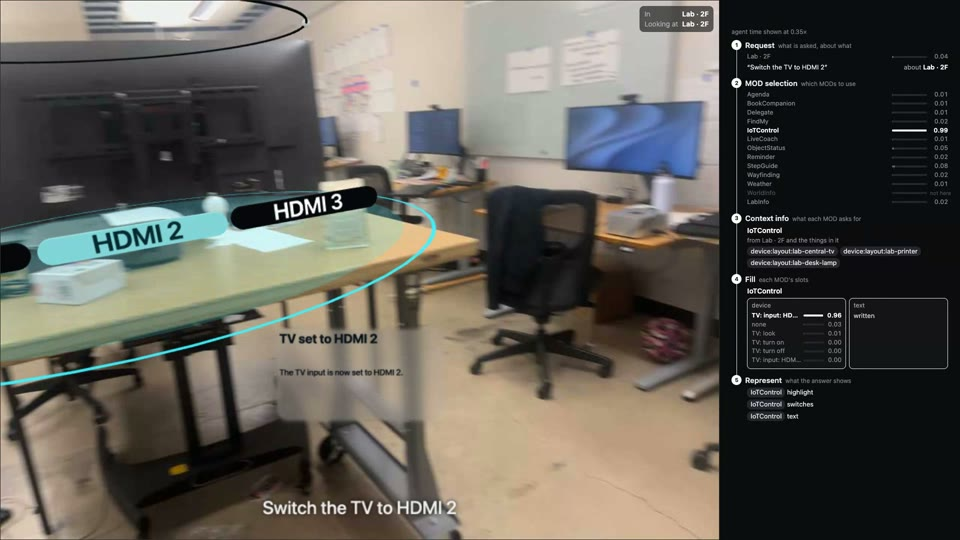
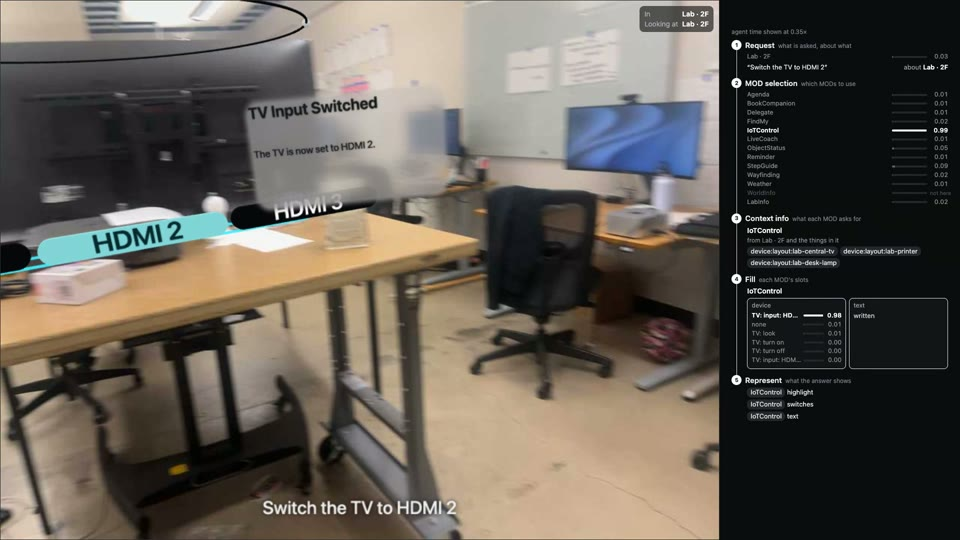
Design doc 10.9-10.15, recordings and cue gallery updates

Changed region(s): [[0.0, 0.1778, 0.4688, 0.8]]

diff --git a/recordings/manifest.js b/recordings/manifest.js
@@ -1,1 +1,1 @@
-window.MANIFEST={"clips":{"weather-corridor":{"name":"weather-corridor","mod":"Weather","question":"Do I need an umbrella tonight?","recording":"atlas_rec_2","ask_at":1,"video":"weather/weather-corridor.mp4","poster":"weather/weather-corridor.jpg","chosen":[["findmy",0.51],["weather",0.98]],"answer":{"title":"Umbrella Needed Tonight","body":"Yes, soft snowfall is expected this evening, so you should take your umbrella from shelf 1."},"latency":1.53,"agent_speed":0.35},"worldinfo-text":{"name":"worldinfo-text","mod":"WorldInfo","question":"What is this study about?","recording":"atlas_rec_3","ask_at":48.6,"video":"worldinfo/worldinfo-text.mp4","poster":"worldinfo/worldinfo-text.jpg","chosen":[["worldinfo",1]],"answer":{"title":"Music-Brain User Study","body":"This is a user study where you can scan and sign up in the brain music lab after reading the eligibility requirements."},"latency":1.87,"agent_speed":0.35},"delegate-poster":{"name":"delegate-poster","mod":"Delegate","question":"Send this poster to Alice","recording":"atlas_rec_2","ask_at":7.1,"video":"delegate/delegate-poster.mp4","poster":"delegate/delegate-poster.jpg","chosen":[["delegate",0.98]],"answer":{"title":"Anastasia's Talk Poster","body":"Hi Alice, here is the poster for Anastasia's talk for your reference."},"latency":2.71,"agent_speed":0.35},"worldinfo-voice":{"name":"worldinfo-voice","mod":"WorldInfo","question":"Can I eat you?","recording":"atlas_rec_3","ask_at":18.1,"video":"worldinfo/worldinfo-voice.mp4","poster":"worldinfo/worldinfo-voice.jpg","chosen":[],"answer":{"title":"Eat the Candy","body":"Yes, you can eat the candy because these are grad tea leftovers and people may help themselves."},"latency":1.42,"agent_speed":0.35},"labinfo-wall":{"name":"labinfo-wall","mod":"LabInfo","question":"What is this lab about?","recording":"atlas_rec_4","ask_at":1,"video":"labinfo/labinfo-wall.mp4","poster":"labinfo/labinfo-wall.jpg","chosen":[["labinfo",0.9]],"answer":{"title":"Programmable Reality Lab Research","body":"This lab aims to make our living environment dynamic, interactive, and programmable using AR, VR, robotics, and shape-changing interfaces."},"latency":1.97,"agent_speed":0.35},"findmy":{"name":"findmy","mod":"FindMy","question":"Where are my headphones?","recording":"atlas_rec_4","ask_at":7,"video":"findmy/findmy.mp4","poster":"findmy/findmy.jpg","chosen":[["findmy",0.92]],"answer":{"title":"Headphones Location","body":"Your headphones are on the middle shelf of the lab shelf."},"latency":1.28,"agent_speed":0.35},"wayfinding-kitchen":{"name":"wayfinding-kitchen","mod":"Wayfinding","question":"How do I get to the kitchen?","recording":"atlas_rec_4","ask_at":1,"video":"wayfinding/wayfinding-kitchen.mp4","poster":"wayfinding/wayfinding-kitchen.jpg","chosen":[["wayfinding",0.98]],"answer":{"title":"Kitchen Directions","body":"Exit the lab into the lab corridor, walk north to the central corridor, and the kitchen is on the west side."},"latency":1.58,"agent_speed":0.35},"agenda-afternoon":{"name":"agenda-afternoon","mod":"Agenda","question":"What do I have this afternoon?","recording":"atlas_rec_4","ask_at":2.5,"video":"agenda/agenda-afternoon.mp4","poster":"agenda/agenda-afternoon.jpg","chosen":[["agenda",0.97]],"answer":{"title":"Afternoon Schedule","body":"You have badminton and a group meeting this afternoon."},"latency":1.16,"agent_speed":0.35},"labinfo-panorama":{"name":"labinfo-panorama","mod":"LabInfo","question":"What does this lab work on?","recording":"atlas_rec_5","ask_at":1,"video":"labinfo/labinfo-panorama.mp4","poster":"labinfo/labinfo-panorama.jpg","chosen":[["labinfo",0.95]],"answer":{"title":"Programmable Reality Lab Research","body":"PRL researches programmable reality, aiming to make the living environment dynamic and interactive through AR/VR, robotics, and shape-changing interfaces."},"latency":1.76,"agent_speed":0.35},"weather-lab":{"name":"weather-lab","mod":"Weather","question":"Will it rain this weekend?","recording":"atlas_rec_5","ask_at":1.5,"video":"weather/weather-lab.mp4","poster":"weather/weather-lab.jpg","chosen":[["weather",0.98]],"answer":{"title":"Weekend weather forecast","body":"No rain is expected this weekend."},"latency":1.42,"agent_speed":0.35},"iotcontrol-brighter":{"name":"iotcontrol-brighter","mod":"IoTControl","question":"I want to make the light brighter","recording":"atlas_rec_5","ask_at":1,"video":"iotcontrol/iotcontrol-brighter.mp4","poster":"iotcontrol/iotcontrol-brighter.jpg","chosen":[["iotcontrol",0.98]],"answer":{"title":"Desk Lamp Brightness","body":"I increased your desk lamp brightness to 60 %."},"latency":1.57,"agent_speed":0.35},"objectstatus-printer":{"name":"objectstatus-printer","mod":"ObjectStatus","question":"Is the printer free?","recording":"atlas_rec_5","ask_at":1,"video":"objectstatus/objectstatus-printer.mp4","poster":"objectstatus/objectstatus-printer.jpg","chosen":[["objectstatus",0.97]],"answer":{"title":"Printer Status","body":"No, the lab printer is currently in use printing a poster for Ana with about 4 minutes remaining."},"latency":1.85,"agent_speed":0.35},"iotcontrol-printer":{"name":"iotcontrol-printer","mod":"IoTControl","question":"How long until my print job is done?","recording":"atlas_rec_5","ask_at":1,"video":"iotcontrol/iotcontrol-printer.mp4","poster":"iotcontrol/iotcontrol-printer.jpg","chosen":[["iotcontrol",0.98]],"answer":{"title":"Print Job Status","body":"Your print job has about 2 minutes left."},"latency":1.41,"agent_speed":0.35},"bookcompanion-lighthouse":{"name":"bookcompanion-lighthouse","mod":"BookCompanion","question":"Remind me what happened in the part I'm reading","recording":"atlas_rec_5","ask_at":5,"video":"bookcompanion/bookcompanion-lighthouse.mp4","poster":"bookcompanion/bookcompanion-lighthouse.jpg","chosen":[["bookcompanion",0.96]],"answer":{"title":"Current Reading","body":"I cannot find what you are reading because context is unavailable."},"latency":1.24,"agent_speed":0.35},"stepguide-espresso":{"name":"stepguide-espresso","mod":"StepGuide","question":"How do I make an espresso with this?","recording":"atlas_rec_5","ask_at":47,"video":"stepguide/stepguide-espresso.mp4","poster":"stepguide/stepguide-espresso.jpg","chosen":[["stepguide",0.9]],"answer":{"title":"Making an espresso","body":"Fill the water tank to the MAX line, grind 18 g of beans, tamp firmly, lock the portafilter in, and press the double-cup button."},"latency":1.2,"agent_speed":0.35},"livecoach-stretch":{"name":"livecoach-stretch","mod":"LiveCoach","question":"How should I stretch after sitting all day?","recording":"atlas_rec_5","ask_at":5.5,"video":"livecoach/livecoach-stretch.mp4","poster":"livecoach/livecoach-stretch.jpg","chosen":[["livecoach",0.64]],"answer":{"title":"Post-Sitting Stretch Routine","body":"Tilt ears to shoulders, roll shoulders back, round upper back, open chest, and do a seated spine twist."},"latency":1.2,"agent_speed":0.35},"reminder-espresso":{"name":"reminder-espresso","mod":"Reminder","question":"Remind me to refill the water tank tomorrow morning","recording":"atlas_rec_5","ask_at":48.5,"video":"reminder/reminder-espresso.mp4","poster":"reminder/reminder-espresso.jpg","chosen":[["reminder",0.97]],"answer":{"title":"Water Tank Reminder","body":"I will remind you to refill the water tank tomorrow morning."},"latency":1.04,"agent_speed":0.35},"weather-umbrella":{"name":"weather-umbrella","mod":"Weather","question":"Should I bring my umbrella?","recording":"atlas_rec_5","ask_at":1.5,"video":"weather/weather-umbrella.mp4","poster":"weather/weather-umbrella.jpg","chosen":[["findmy",0.59],["weather",0.97]],"answer":{"title":"Umbrella recommendation","body":"Yes, bring your umbrella because soft snowfall is expected this evening."},"latency":1.52,"agent_speed":0.35},"iotcontrol-tv":{"name":"iotcontrol-tv","mod":"IoTControl","question":"Switch the TV to HDMI 2","recording":"atlas_rec_5","ask_at":1,"video":"iotcontrol/iotcontrol-tv.mp4","poster":"iotcontrol/iotcontrol-tv.jpg","chosen":[["iotcontrol",0.99]],"answer":{"title":"TV set to HDMI 2","body":"The TV input is now set to HDMI 2."},"latency":1.27,"agent_speed":0.35},"delegate-describe":{"name":"delegate-describe","mod":"Delegate","question":"Describe this and draft a message to Alice","recording":"atlas_rec_2","ask_at":7.1,"video":"delegate/delegate-describe.mp4","poster":"delegate/delegate-describe.jpg","chosen":[["delegate",0.66]],"answer":{"title":"Anastasia's Talk Poster","body":"Anastasia Kouvaras Ostrowski, Assistant Professor at Purdue, focuses on HRI, HCI, and human-centered AI."},"latency":2.84,"agent_speed":0.35},"delegate-photo":{"name":"delegate-photo","mod":"Delegate","question":"Take a photo of this and send it to Alice","recording":"atlas_rec_2","ask_at":7.1,"video":"delegate/delegate-photo.mp4","poster":"delegate/delegate-photo.jpg","chosen":[["delegate",0.97]],"answer":{"title":"Poster of Anastasia's Talk","body":"Here is a photo of the Poster of Anastasia's Talk for you."},"latency":2.71,"agent_speed":0.35}},"recorded":"2026-11-17T21:12:08.420Z"};
+window.MANIFEST={"clips":{"weather-corridor":{"name":"weather-corridor","mod":"Weather","question":"Do I need an umbrella tonight?","recording":"atlas_rec_2","ask_at":1,"video":"weather/weather-corridor.mp4","poster":"weather/weather-corridor.jpg","chosen":[["weather",0.98]],"answer":{"title":"No Umbrella Needed Tonight","body":"You won't need an umbrella tonight as soft snowfall is forecasted instead of rain."},"latency":1.23,"agent_speed":0.35},"worldinfo-text":{"name":"worldinfo-text","mod":"WorldInfo","question":"What is this study about?","recording":"atlas_rec_3","ask_at":48.6,"video":"worldinfo/worldinfo-text.mp4","poster":"worldinfo/worldinfo-text.jpg","chosen":[["worldinfo",1]],"answer":{"title":"Music-Brain User Study","body":"It is a user study where you can scan and sign up in the brain music lab after reading the requirements."},"latency":2.71,"agent_speed":0.35},"delegate-poster":{"name":"delegate-poster","mod":"Delegate","question":"Send this poster to Alice","recording":"atlas_rec_2","ask_at":7.1,"video":"delegate/delegate-poster.mp4","poster":"delegate/delegate-poster.jpg","chosen":[["delegate",0.98]],"answer":{"title":"Anastasia's Talk Poster","body":"Hi Alice, here is the poster for Anastasia's talk for your reference."},"latency":2.71,"agent_speed":0.35},"worldinfo-voice":{"name":"worldinfo-voice","mod":"WorldInfo","question":"Can I eat you?","recording":"atlas_rec_3","ask_at":18.1,"video":"worldinfo/worldinfo-voice.mp4","poster":"worldinfo/worldinfo-voice.jpg","chosen":[["worldinfo",1]],"answer":{"title":"Yes, you can eat me","body":"Yes, you can help yourself. I am leftover from this week's grad tea."},"latency":2.76,"agent_speed":0.35},"labinfo-wall":{"name":"labinfo-wall","mod":"LabInfo","question":"What is this lab about?","recording":"atlas_rec_4","ask_at":1,"video":"labinfo/labinfo-wall.mp4","poster":"labinfo/labinfo-wall.jpg","chosen":[["labinfo",0.9]],"answer":{"title":"Programmable Reality Lab Research","body":"This lab aims to make our living environment dynamic, interactive, and programmable using AR, VR, robotics, and shape-changing interfaces."},"latency":1.97,"agent_speed":0.35},"findmy":{"name":"findmy","mod":"FindMy","question":"Where are my headphones?","recording":"atlas_rec_4","ask_at":7,"video":"findmy/findmy.mp4","poster":"findmy/findmy.jpg","chosen":[["findmy",0.92]],"answer":{"title":"Headphones Location","body":"Your headphones are on shelf 3."},"latency":1.02,"agent_speed":0.35},"wayfinding-kitchen":{"name":"wayfinding-kitchen","mod":"Wayfinding","question":"How do I get to the kitchen?","recording":"atlas_rec_4","ask_at":1,"video":"wayfinding/wayfinding-kitchen.mp4","poster":"wayfinding/wayfinding-kitchen.jpg","chosen":[["wayfinding",0.98]],"answer":{"title":"Directions to the Kitchen","body":"Exit the lab, turn right into the lab corridor, go north to the central corridor, and find the kitchen on your left."},"latency":1.05,"agent_speed":0.35},"agenda-afternoon":{"name":"agenda-afternoon","mod":"Agenda","question":"What do I have this afternoon?","recording":"atlas_rec_4","ask_at":2.5,"video":"agenda/agenda-afternoon.mp4","poster":"agenda/agenda-afternoon.jpg","chosen":[["agenda",0.97]],"answer":{"title":"Afternoon Schedule","body":"You have badminton and a group meeting this afternoon."},"latency":1.16,"agent_speed":0.35},"labinfo-panorama":{"name":"labinfo-panorama","mod":"LabInfo","question":"What does this lab work on?","recording":"atlas_rec_5","ask_at":1,"video":"labinfo/labinfo-panorama.mp4","poster":"labinfo/labinfo-panorama.jpg","chosen":[["labinfo",0.95]],"answer":{"title":"Programmable Reality Lab Research","body":"PRL researches programmable reality, aiming to make the living environment dynamic and interactive through AR/VR, robotics, and shape-changing interfaces."},"latency":1.76,"agent_speed":0.35},"weather-lab":{"name":"weather-lab","mod":"Weather","question":"Will it rain this weekend?","recording":"atlas_rec_5","ask_at":1.5,"video":"weather/weather-lab.mp4","poster":"weather/weather-lab.jpg","chosen":[["weather",0.98]],"answer":{"title":"Weekend weather forecast","body":"No rain is expected this weekend. Saturday brings drifting mist, clear skies, and soft snowfall, while Sunday features drifting mist and soft snowfall."},"latency":1.24,"agent_speed":0.35},"iotcontrol-brighter":{"name":"iotcontrol-brighter","mod":"IoTControl","question":"I want to make the light brighter","recording":"atlas_rec_5","ask_at":1,"video":"iotcontrol/iotcontrol-brighter.mp4","poster":"iotcontrol/iotcontrol-brighter.jpg","chosen":[["iotcontrol",0.98]],"answer":{"title":"Desk Lamp Brightness Increased","body":"I have increased the desk lamp brightness to 60 percent."},"latency":1.04,"agent_speed":0.35},"objectstatus-printer":{"name":"objectstatus-printer","mod":"ObjectStatus","question":"Is the printer free?","recording":"atlas_rec_5","ask_at":1,"video":"objectstatus/objectstatus-printer.mp4","poster":"objectstatus/objectstatus-printer.jpg","chosen":[["objectstatus",0.98]],"answer":{"title":"Printer Status","body":"No, the printer is in use printing a 12-page poster for Ana and has about 4 minutes left."},"latency":1.15,"agent_speed":0.35},"iotcontrol-printer":{"name":"iotcontrol-printer","mod":"IoTControl","question":"How long until my print job is done?","recording":"atlas_rec_5","ask_at":1,"video":"iotcontrol/iotcontrol-printer.mp4","poster":"iotcontrol/iotcontrol-printer.jpg","chosen":[["iotcontrol",0.98]],"answer":{"title":"Print job status","body":"Your print job has about 2 minutes left."},"latency":1.07,"agent_speed":0.35},"bookcompanion-lighthouse":{"name":"bookcompanion-lighthouse","mod":"BookCompanion","question":"Remind me what happened in the part I'm reading","recording":"atlas_rec_5","ask_at":5,"video":"bookcompanion/bookcompanion-lighthouse.mp4","poster":"bookcompanion/bookcompanion-lighthouse.jpg","chosen":[["bookcompanion",0.92]],"answer":{"title":"Current Reading","body":"No information about the part you are reading is currently available."},"latency":0.97,"agent_speed":0.35},"stepguide-espresso":{"name":"stepguide-espresso","mod":"StepGuide","question":"How do I make an espresso with this?","recording":"atlas_rec_5","ask_at":47,"video":"stepguide/stepguide-espresso.mp4","poster":"stepguide/stepguide-espresso.jpg","chosen":[["stepguide",0.9]],"answer":{"title":"Making an espresso","body":"Fill the water tank to the MAX line, grind 18 g of beans, tamp firmly, lock the portafilter in, and press the double-cup button."},"latency":1.2,"agent_speed":0.35},"livecoach-stretch":{"name":"livecoach-stretch","mod":"LiveCoach","question":"How should I stretch after sitting all day?","recording":"atlas_rec_5","ask_at":5.5,"video":"livecoach/livecoach-stretch.mp4","poster":"livecoach/livecoach-stretch.jpg","chosen":[["livecoach",0.64]],"answer":{"title":"Post-Sitting Stretch Routine","body":"Tilt ears to shoulders, roll shoulders back, round upper back, open chest, and do a seated spine twist."},"latency":1.2,"agent_speed":0.35},"reminder-espresso":{"name":"reminder-espresso","mod":"Reminder","question":"Remind me to refill the water tank tomorrow morning","recording":"atlas_rec_5","ask_at":48.5,"video":"reminder/reminder-espresso.mp4","poster":"reminder/reminder-espresso.jpg","chosen":[["reminder",0.97]],"answer":{"title":"Water Tank Reminder","body":"I will remind you to refill the water tank tomorrow morning."},"latency":1.04,"agent_speed":0.35},"weather-umbrella":{"name":"weather-umbrella","mod":"Weather","question":"Should I bring my umbrella?","recording":"atlas_rec_5","ask_at":1.5,"video":"weather/weather-umbrella.mp4","poster":"weather/weather-umbrella.jpg","chosen":[["findmy",0.59],["weather",0.96]],"answer":{"title":"Umbrella Check","body":"Yes, bring your umbrella because soft snowfall is expected this evening."},"latency":1.08,"agent_speed":0.35},"iotcontrol-tv":{"name":"iotcontrol-tv","mod":"IoTControl","question":"Switch the TV to HDMI 2","recording":"atlas_rec_5","ask_at":1,"video":"iotcontrol/iotcontrol-tv.mp4","poster":"iotcontrol/iotcontrol-tv.jpg","chosen":[["iotcontrol",0.99]],"answer":{"title":"TV Input Switched","body":"The TV is now set to HDMI 2."},"latency":0.99,"agent_speed":0.35},"delegate-describe":{"name":"delegate-describe","mod":"Delegate","question":"Describe this and draft a message to Alice","recording":"atlas_rec_2","ask_at":7.1,"video":"delegate/delegate-describe.mp4","poster":"delegate/delegate-describe.jpg","chosen":[["delegate",0.66]],"answer":{"title":"Anastasia's Talk Poster","body":"Anastasia Kouvaras Ostrowski, Assistant Professor at Purdue, focuses on HRI, HCI, and human-centered AI."},"latency":2.84,"agent_speed":0.35},"delegate-photo":{"name":"delegate-photo","mod":"Delegate","question":"Take a photo of this and send it to Alice","recording":"atlas_rec_2","ask_at":7.1,"video":"delegate/delegate-photo.mp4","poster":"delegate/delegate-photo.jpg","chosen":[["delegate",0.97]],"answer":{"title":"Poster of Anastasia's Talk","body":"Here is a photo of the Poster of Anastasia's Talk for you."},"latency":2.71,"agent_speed":0.35}},"recorded":"2026-11-18T01:29:03.866Z"};

diff --git a/recordings/index.html b/recordings/index.html
@@ -112,7 +112,7 @@ const MODS=[
   ['LiveCoach','spec','Coaching a movement, with cues on your body.'],
   ['Reminder','spec','Reminders tied to a thing at a time.'],
 ];
-const CUES=[["Mark: show which thing or place",[["breathingBox","Breathing Box","When the user is looking for a thing or must notice it, to draw the eye to the thing itself.","FindMy found item; ObjectStatus attention"],["cornerBrackets","Corner Brackets","When the thing carries content the user needs to read (a document, book, poster, screen), to mark it without covering that content.","WorldInfo on a poster"],["footprintRing","Footprint Ring","When the user is operating or asking about one thing and its controls or info appear beside it, to show which thing they belong to.","IoTControl on the lamp"],["floorArea","Floor Area","When the target is a room or area in view, to show its extent; a place has no box, so only its floor lights up.","LabInfo “this area”"],["doorwayGlow","Doorway Glow","When the target room is elsewhere but its door is in view, to show where to go in.","Wayfinding to a room"]]],["Direction: lead there",[["arrowAhead","Arrow Ahead","When the target is nearby but out of view, to show which way to turn.","FindMy, Wayfinding"],["floorPath","Floor Path","When reaching the target means walking through other spaces, to lead the user along the route.","Wayfinding along a corridor"]]],["Display: read only",[["haloDial","Gauge","When the user asks how much of something there is now (a level with a range: brightness, toner, battery), to show the amount at a glance.","“How bright is the lamp?”"],["progressRail","Progress Rail","When a task is running toward an end, to show how far along it is and how long is left.","Printer job, laundry cycle"],["pinnedTags","Pinned Tags","When the user needs several separate readings of one thing, to show each next to the part it is about.","Printer toner and paper"],["statusPulse","Status Pulse","When something about a thing needs attention, to flag it in the state’s color and say why.","ObjectStatus “paper low”"],["cardStack","Card Stack","When things wait in line for a device, to show what is next and how many are waiting.","Print queue"]]],["Control: change it",[["edgeBar","Slider","When the user wants to change a level, to let them set it by dragging along the thing’s edge.","“Make the light brighter”"],["datePicker","Date Picker","When data is dated and the user can move between days, to pick a day: the month once above, each day a capsule with its weekday and date.","Weather days, Agenda"],["playback","Playback","When data runs through time, to play it and scrub to a moment: a Play/Pause button, a rail with a stop per entry, and the current time riding on the thumb.","Weather hours"],["edgeTabs","Edge Tabs","When the user wants to switch between a few options, to pick one directly on the thing.","“Switch the TV to HDMI 2”"],["iconButton","Icon Button","When the user wants to switch something on or off or trigger a command, to do it in one press: a preset icon with its word (Send, Confirm, Cancel, Turn on/off, Pause…).","Power, cancel a print job, Send"],["textButton","Text Button","When no preset button fits the action, the system writes a text-only button that says what the press does.","“Clean print head”"]]],["Message: reach a person",[["contactChip","Contact Chip","When an action reaches a person, to show who it goes to (initials and name); with several candidates, each is a chip to pick.","Delegate “…to Alice”"],["textInput","Text Input","When the user may change what will be said, to show the drafted text in a field they can tap and edit (keyboard or dictation).","Delegate “describe this and draft a message”"],["photoCapture","Photo Capture","When what is sent is a photo of the thing, to frame the thing and flash, then show the photo as a card with the message.","Delegate “take a photo of this and send it”"]]],["Text forms (library, not cues)",[["","Embedded Text","When a surface at the anchor scores well for writing on, to write the text onto it, handwritten.","Weather on the desk"],["","Floating Text","When no surface scores well enough, to show the text beside its anchor, facing the user.","an answer beside the lamp"],["","Object-centric Dialogue","Only when a thing is clearly pointed at and asked in the second person (“Can I eat you?”), to let it answer in its own voice.","WorldInfo voice"]]],["Act: do it for the user",[["tetherSend","Tether Send","When the system passes something to someone for the user, to show what goes to whom before it is sent.","“Send the poster to Alice”"]]]];
+const CUES=[["Mark: show which thing or place",[["breathingBox","Breathing Box","When the user is looking for a thing or must notice it, to draw the eye to the thing itself.","FindMy found item; ObjectStatus attention"],["cornerBrackets","Corner Brackets","When the thing carries content the user needs to read (a document, book, poster, screen), to mark it without covering that content.","WorldInfo on a poster"],["footprintRing","Footprint Ring","When the user is operating or asking about one thing and its controls or info appear beside it, to show which thing they belong to.","IoTControl on the lamp"],["floorArea","Floor Area","When the target is a room or area in view, to show its extent; a place has no box, so only its floor lights up.","LabInfo “this area”"],["doorwayGlow","Doorway Glow","When the target room is elsewhere but its door is in view, to show where to go in.","Wayfinding to a room"]]],["Direction and link: lead there, or point text at its thing",[["arrowAhead","Arrow Ahead","When the target is nearby but out of view, to show which way to turn.","FindMy, Wayfinding"],["floorPath","Floor Path","When reaching the target means walking through other spaces, to lead the user along the route.","Wayfinding along a corridor"],["textArrow","Text Arrow","When text stands apart from the thing it is about, to point from the text to that thing. It does not lead anywhere; Arrow Ahead and Floor Path do.","WorldInfo beside a poster"]]],["Display: read only",[["haloDial","Gauge","When the user asks how much of something there is now (a level with a range: brightness, toner, battery), to show the amount at a glance.","“How bright is the lamp?”"],["progressRail","Progress Rail","When a task is running toward an end, to show how far along it is and how long is left.","Printer job, laundry cycle"],["pinnedTags","Pinned Tags","When the user needs several separate readings of one thing, to show each next to the part it is about.","Printer toner and paper"],["statusPulse","Status Pulse","When something about a thing needs attention, to flag it in the state’s color and say why.","ObjectStatus “paper low”"],["cardStack","Card Stack","When things wait in line for a device, to show what is next and how many are waiting.","Print queue"]]],["Adjust: change the thing (sent)",[["edgeBar", "Slider", "When the user wants to change a level, to let them set it by dragging along the thing’s edge; the new level is sent when they let go.", "“Make the light brighter”"], ["edgeTabs", "Edge Tabs", "When the user wants to switch between a few options, to pick one directly on the thing.", "“Switch the TV to HDMI 2”"], ["iconButton", "Icon Button", "When the user wants to switch something on or off or trigger a command, to do it in one press: a preset icon with its word (Send, Confirm, Cancel, Turn on/off, Pause…).", "Power, cancel a print job, Send"], ["textButton", "Text Button", "When no preset button fits the action, the system writes a text-only button that says what the press does.", "“Clean print head”"]]],["Explore: move through information (nothing sent)",[["datePicker", "Date Picker", "When data is dated and the user can move between days, to pick a day: the month once above, each day a capsule with its weekday and date.", "Weather days, Agenda"], ["playback", "Playback", "When data runs through time, to play it and scrub to a moment: a Play/Pause button, a rail with a stop per entry, and the current time riding on the thumb.", "Weather hours"]]],["Message: reach a person",[["contactChip","Contact Chip","When an action reaches a person, to show who it goes to (initials and name); with several candidates, each is a chip to pick.","Delegate “…to Alice”"],["textInput","Text Input","When the user may change what will be said, to show the drafted text in a field they can tap and edit (keyboard or dictation).","Delegate “describe this and draft a message”"],["photoCapture","Photo Capture","When what is sent is a photo of the thing, to frame the thing and flash, then show the photo as a card with the message.","Delegate “take a photo of this and send it”"]]],["Text forms (library, not cues)",[["","Embedded Text","When a surface at the anchor scores well for writing on, to write the text onto it, handwritten.","Weather on the desk"],["","Floating Text","When no surface scores well enough, to show the text beside its anchor, facing the user.","an answer beside the lamp"],["","Object-centric Dialogue","Only when a thing is clearly pointed at and asked in the second person (“Can I eat you?”), to let it answer in its own voice.","WorldInfo voice"]]],["Act: do it for the user",[["tetherSend","Tether Send","When the system passes something to someone for the user, to show what goes to whom before it is sent.","“Send the poster to Alice”"]]]];
 const esc=s=>String(s??'').replace(/[&<>"]/g,c=>({'&':'&amp;','<':'&lt;','>':'&gt;','"':'&quot;'}[c]));
 let clips=[],filter='all';
 const NAMES={labinfo:'LabInfo',worldinfo:'WorldInfo',findmy:'FindMy',weather:'Weather',iotcontrol:'IoTControl',objectstatus:'ObjectStatus',wayfinding:'Wayfinding',delegate:'Delegate',agenda:'Agenda',bookcompanion:'BookCompanion',stepguide:'StepGuide',livecoach:'LiveCoach',reminder:'Reminder'};
